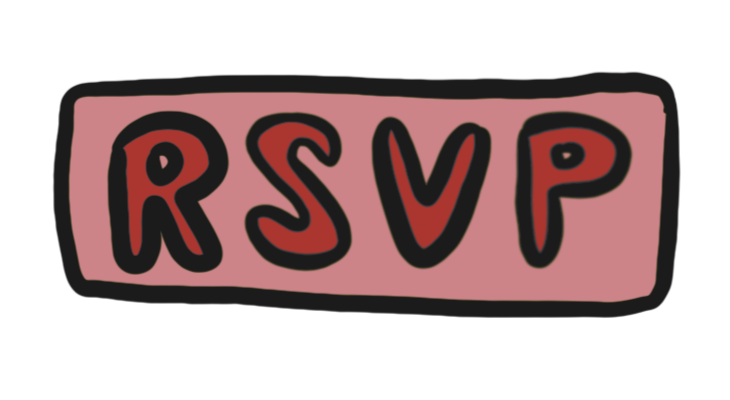
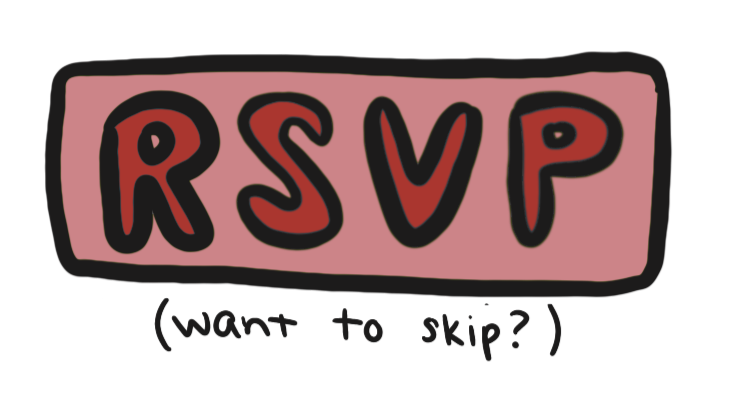
adding end scene

diff --git a/src/EndPage.jsx b/src/EndPage.jsx
@@ -1,0 +1,75 @@
+export default function EndPage() {
+  const goToWeddingSite = () => {
+    window.location.href = "https://a2saywedo.com/";
+  };
+
+  const styles = {
+    page: {
+      minHeight: "100dvh",
+      width: "100%",
+      boxSizing: "border-box",
+      background: "#F4EFEA",
+      display: "flex",
+      justifyContent: "center",
+      overflowX: "hidden",
+      padding: "clamp(8px, 5vh, 64px) 20px 32px",
+    },
+    content: {
+      width: "min(100%, 1000px)",
+      display: "flex",
+      flexDirection: "column",
+      alignItems: "center",
+    },
+    invitation: {
+      width: "min(92vw, 860px)",
+      display: "block",
+    },
+    button: {
+      marginTop: "clamp(6px, 3vh, 36px)",
+      padding: 0,
+      border: 0,
+      background: "transparent",
+      cursor: "pointer",
+    },
+    weddingSite: {
+      width: "min(82vw, 760px)",
+      display: "block",
+    },
+    endCredit: {
+      width: "min(88vw, 760px)",
+      display: "block",
+      marginTop: "clamp(8px, 4vh, 44px)",
+    },
+  };
+
+  return (
+    <main style={styles.page}>
+      <div style={styles.content}>
+        <img
+          src="/end-scene/invitation.png"
+          alt="Amie and Andrew cordially invite you to their wedding"
+          style={styles.invitation}
+        />
+
+        <button
+          type="button"
+          onClick={goToWeddingSite}
+          style={styles.button}
+          aria-label="Open wedding site"
+        >
+          <img
+            src="/end-scene/weddingsite.png"
+            alt=""
+            style={styles.weddingSite}
+          />
+        </button>
+
+        <img
+          src="/end-scene/endcredit.png"
+          alt="Created with love by Amie"
+          style={styles.endCredit}
+        />
+      </div>
+    </main>
+  );
+}

diff --git a/src/App.jsx b/src/App.jsx
@@ -1,5 +1,6 @@
 import { useState } from "react";
 import Game from "./Game";
+import EndPage from "./EndPage";
 
 import title from "./assets/title.PNG";
 import heart from "./assets/heart.gif";
@@ -9,6 +10,10 @@ import rsvpButton from "./assets/rsvp_button.PNG";
 import playButton from "./assets/play_button.PNG";
 
 export default function App() {
+  if (window.location.pathname === "/end") {
+    return <EndPage />;
+  }
+
   const handleRSVP = () => {
     window.location.href = "https://a2saywedo.com";
   };

diff --git a/src/Game.jsx b/src/Game.jsx
@@ -151,6 +151,9 @@ export default function Game() {
         callback: () => {
           redirectCountdown -= 1;
           updateWinMessage();
+          if (redirectCountdown <= 0) {
+            window.location.href = "/end";
+          }
         },
       });
     }